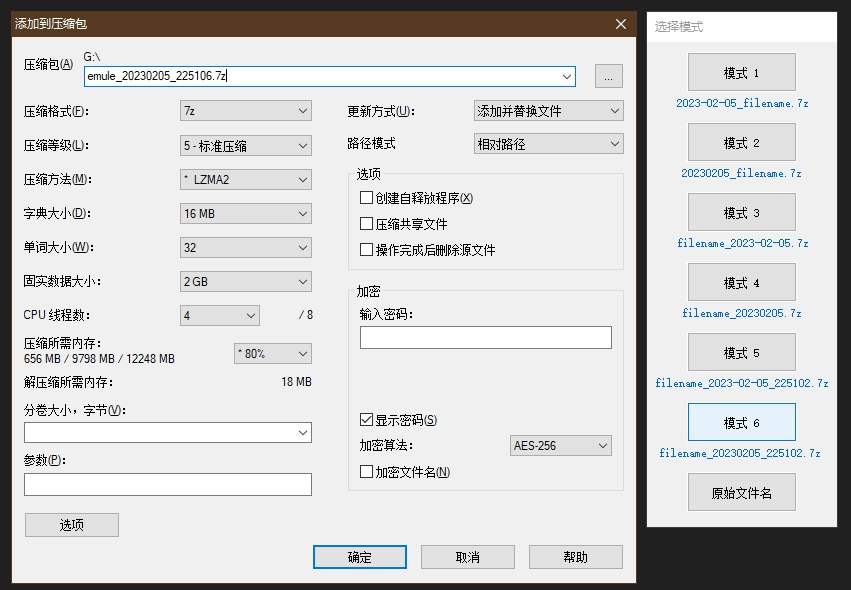
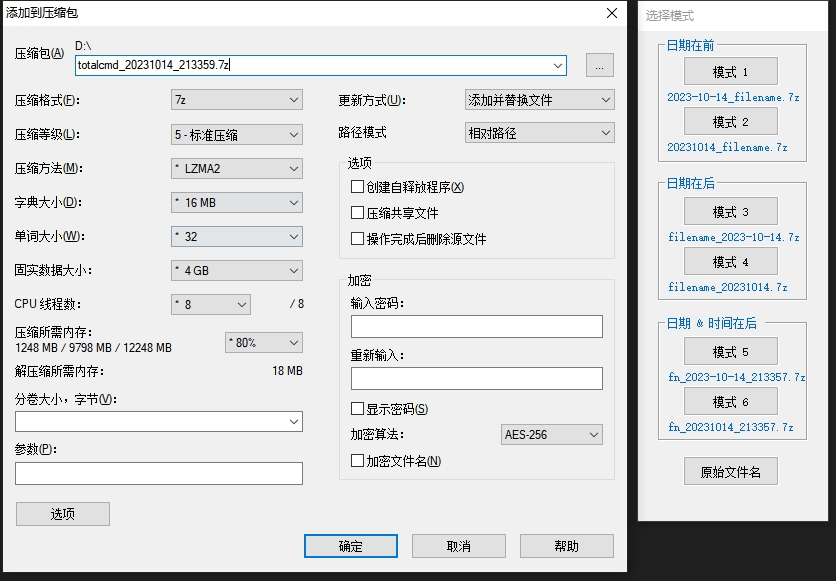
1.1.2

diff --git a/README.md b/README.md
@@ -8,6 +8,10 @@ For a long time, 7-Zip lacks the ability to add date/time to the archive's filen
 ![image](https://github.com/fffb/7zDT/blob/main/screenshot.jpg)
 
 ## Changelog 更新记录  
+2023-10-14 v1.1.2  (AHK v2)
+> - Interface Optimization.   
+> 界面优化  
+
 2023-02-15 v1.1.1  (AHK v2)
 > - Fixed: 7zDT will no longer be displayed together with the "Compressing" window.   
 > 修复了 7zDT 在“正在压缩”界面也显示的问题  
